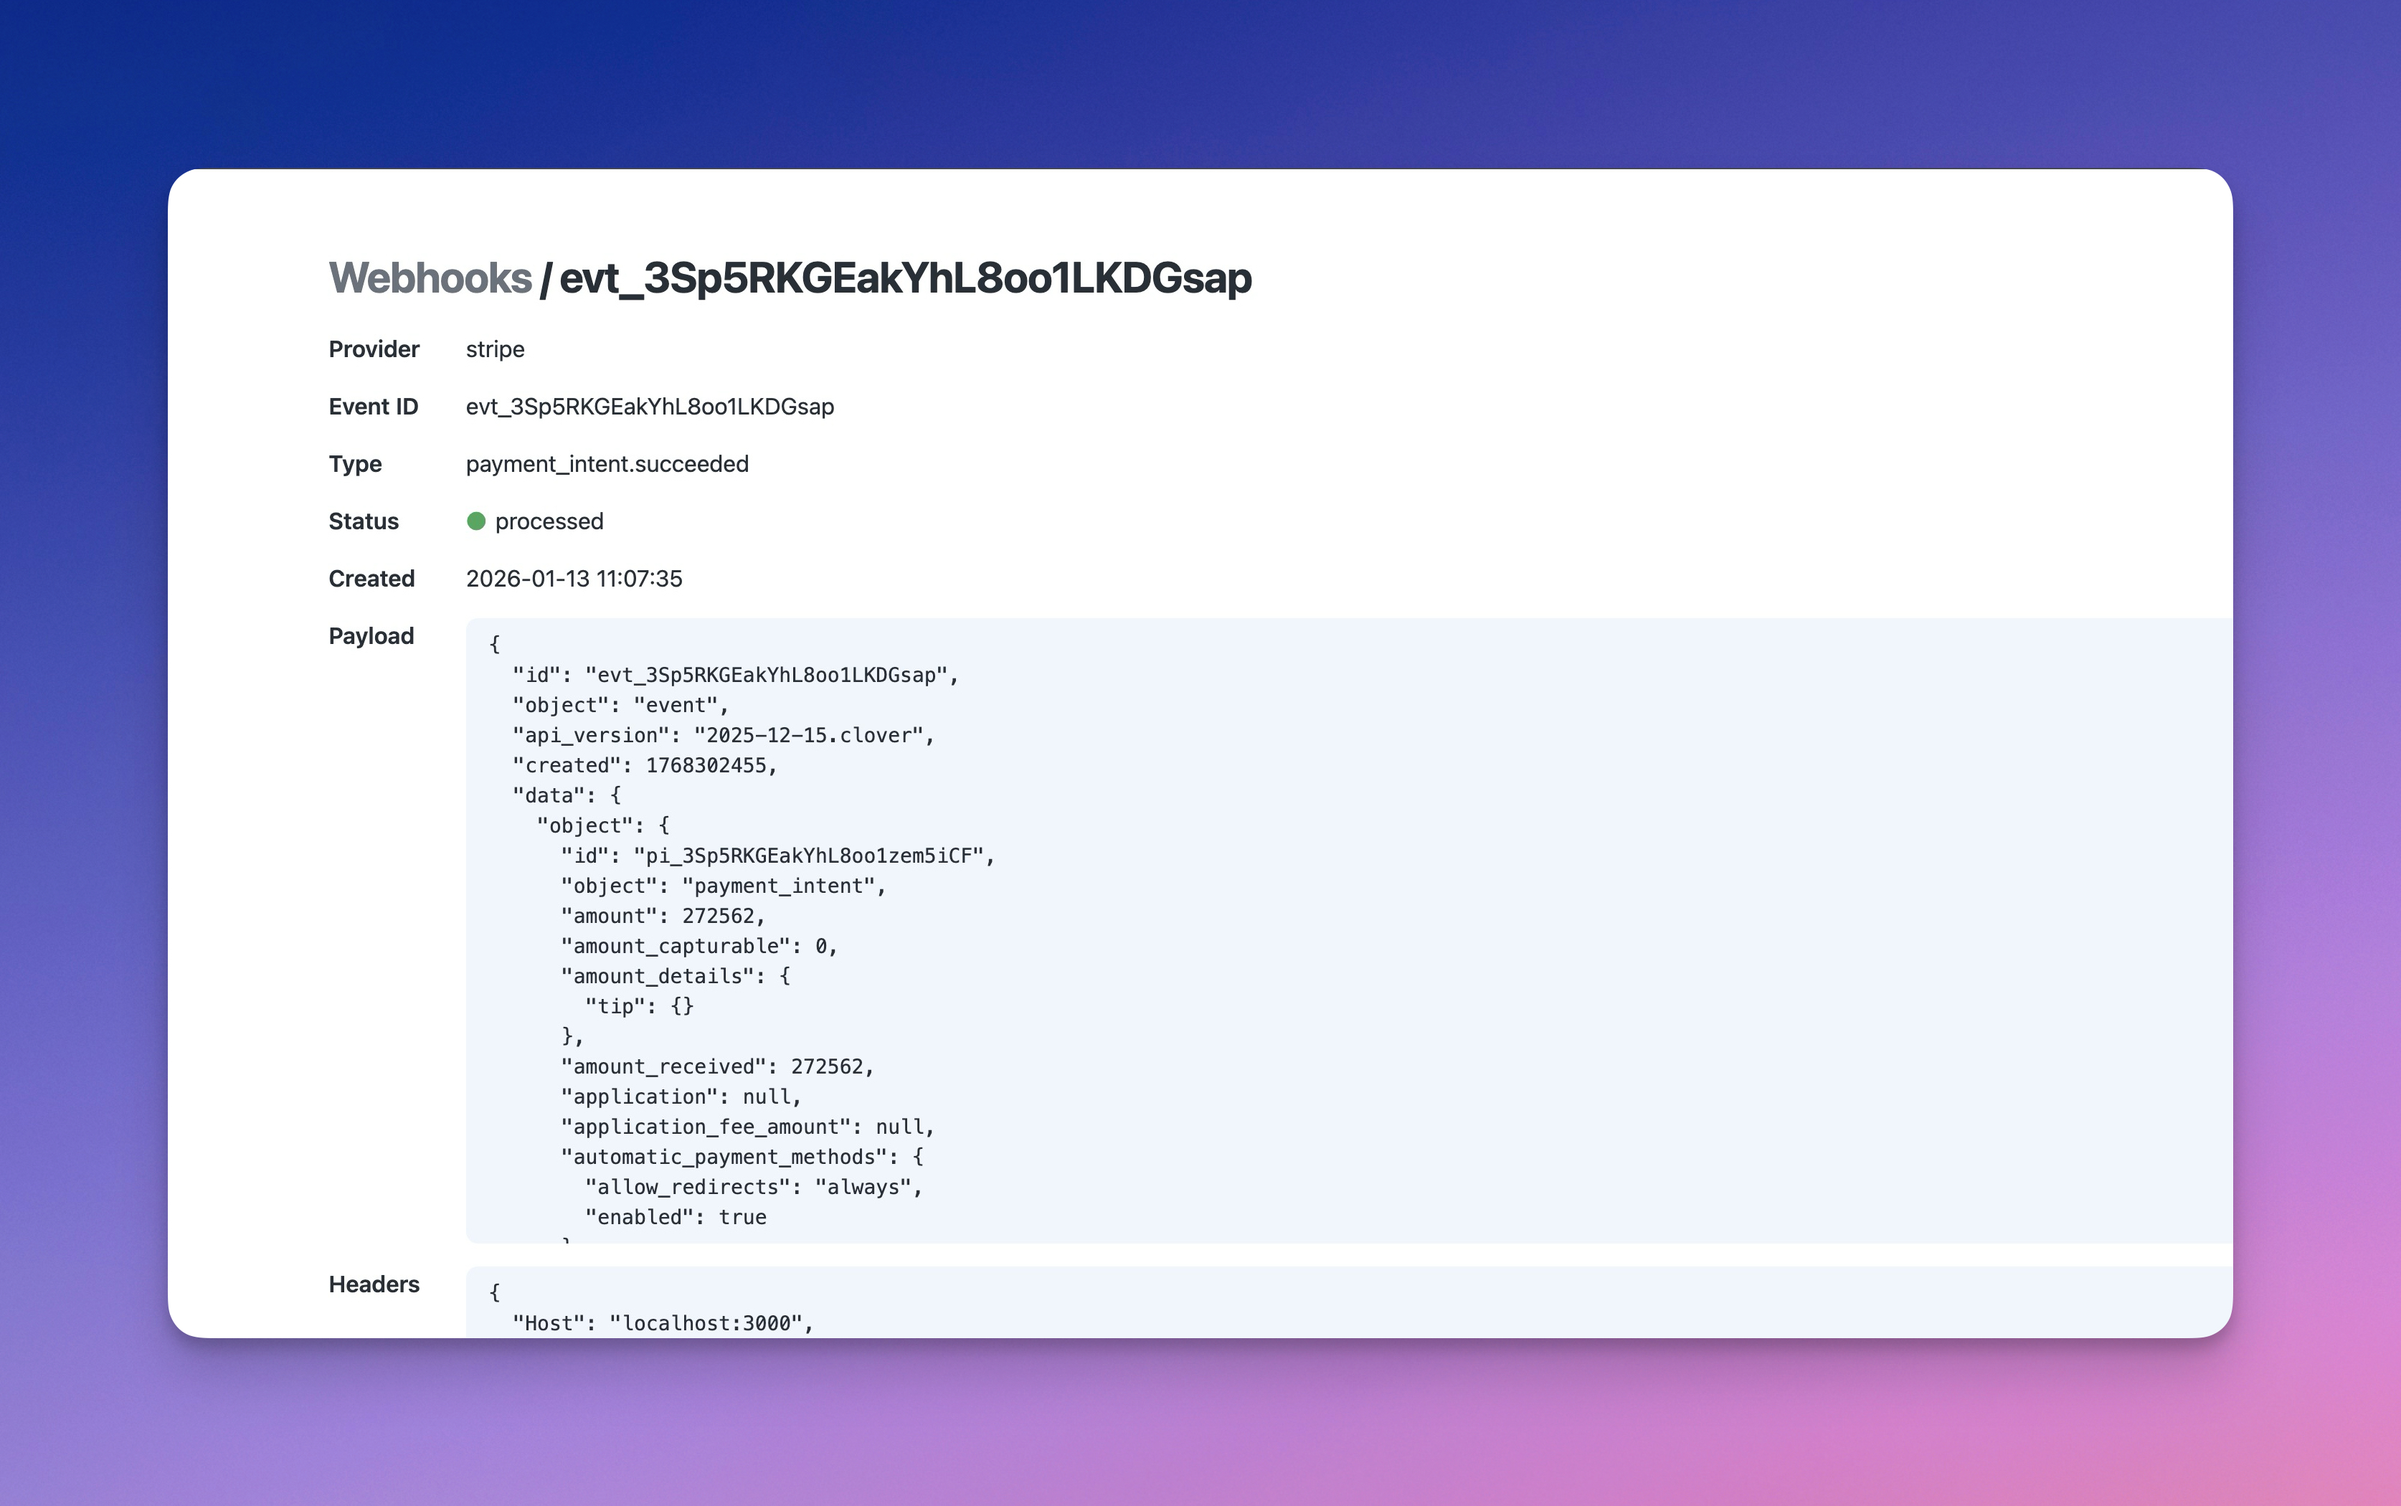
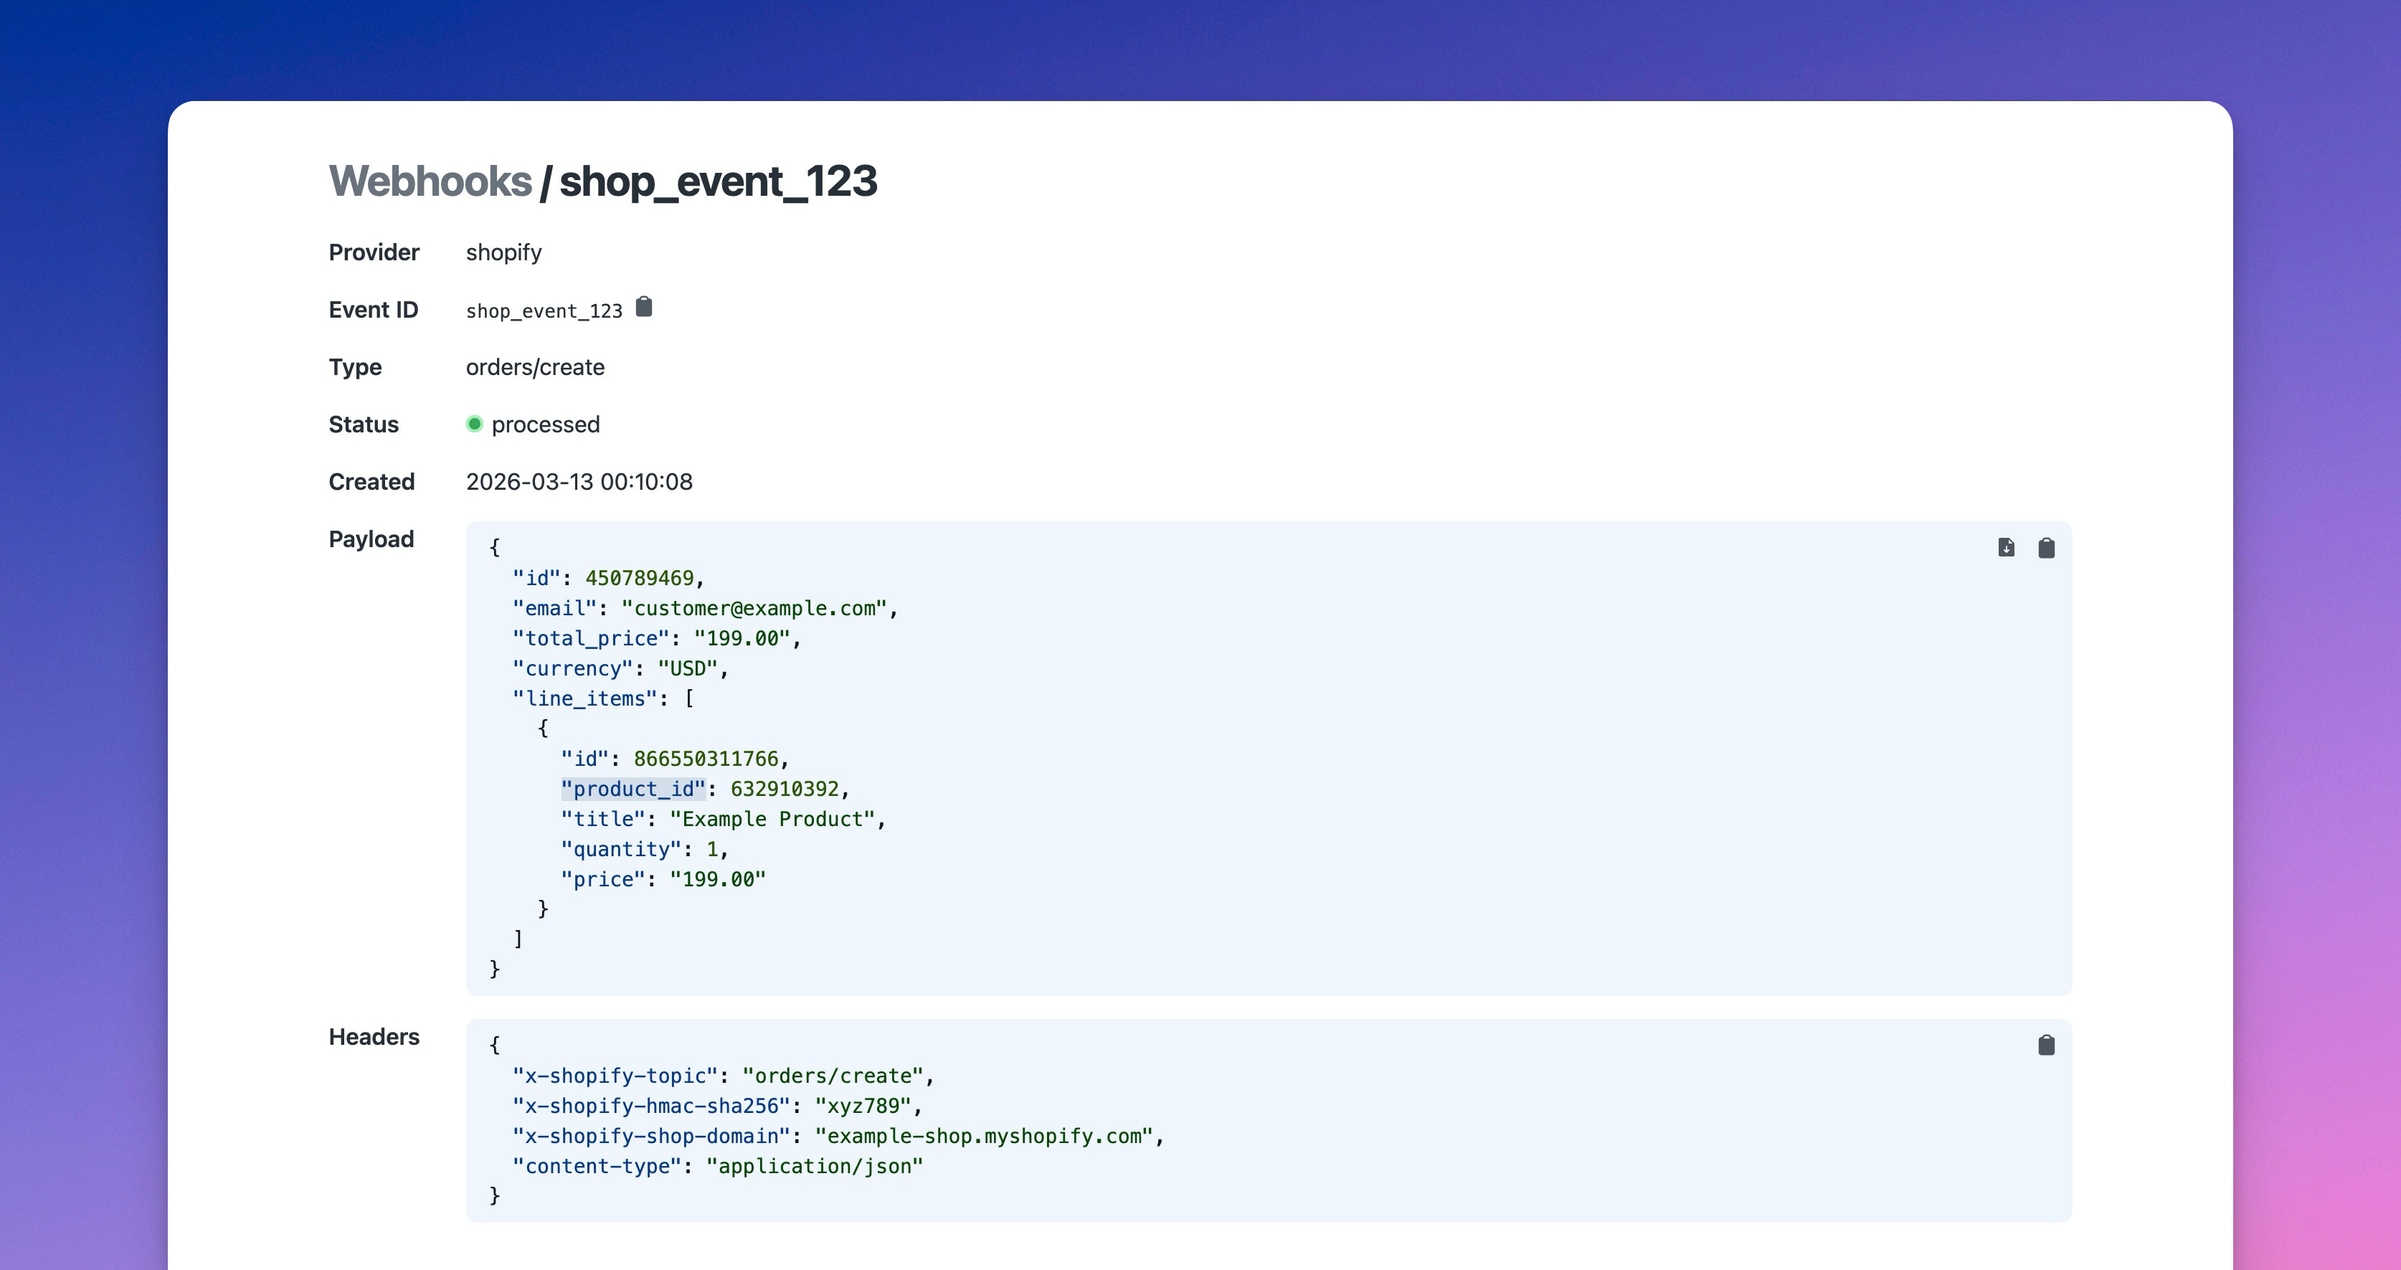
README update

diff --git a/README.md b/README.md
@@ -54,7 +54,7 @@ The engine mounts at `/webhooks` automatically.
 
 ### View events
 
-Visit `/webhooks` to see all received webhooks. Click any event to see the full payload, headers and status.
+Visit `/webhooks` to see all received webhooks. Click any event to view all the payload details and copy the payload or download as JSON.
 
 <img alt="Fuik event detail interface" src="https://raw.githubusercontent.com/Rails-Designer/fuik/HEAD/.github/docs/event-detail.jpg" style="max-width: 100%;">
 
@@ -63,15 +63,14 @@ Visit `/webhooks` to see all received webhooks. Click any event to see the full 
 
 ### Add business logic
 
-Generate event handlers when you're ready to automate:
+Generate classes for events you want to process:
 ```bash
-bin/rails generate fuik:provider stripe checkout_session_completed customer_subscription_updated
+bin/rails generate fuik:provider stripe checkout_session_completed
 ```
 
 This creates:
 - `app/webhooks/stripe/base.rb`
 - `app/webhooks/stripe/checkout_session_completed.rb`
-- `app/webhooks/stripe/customer_subscription_updated.rb`
 
 Each class is a thin wrapper around your business logic:
 ```ruby
